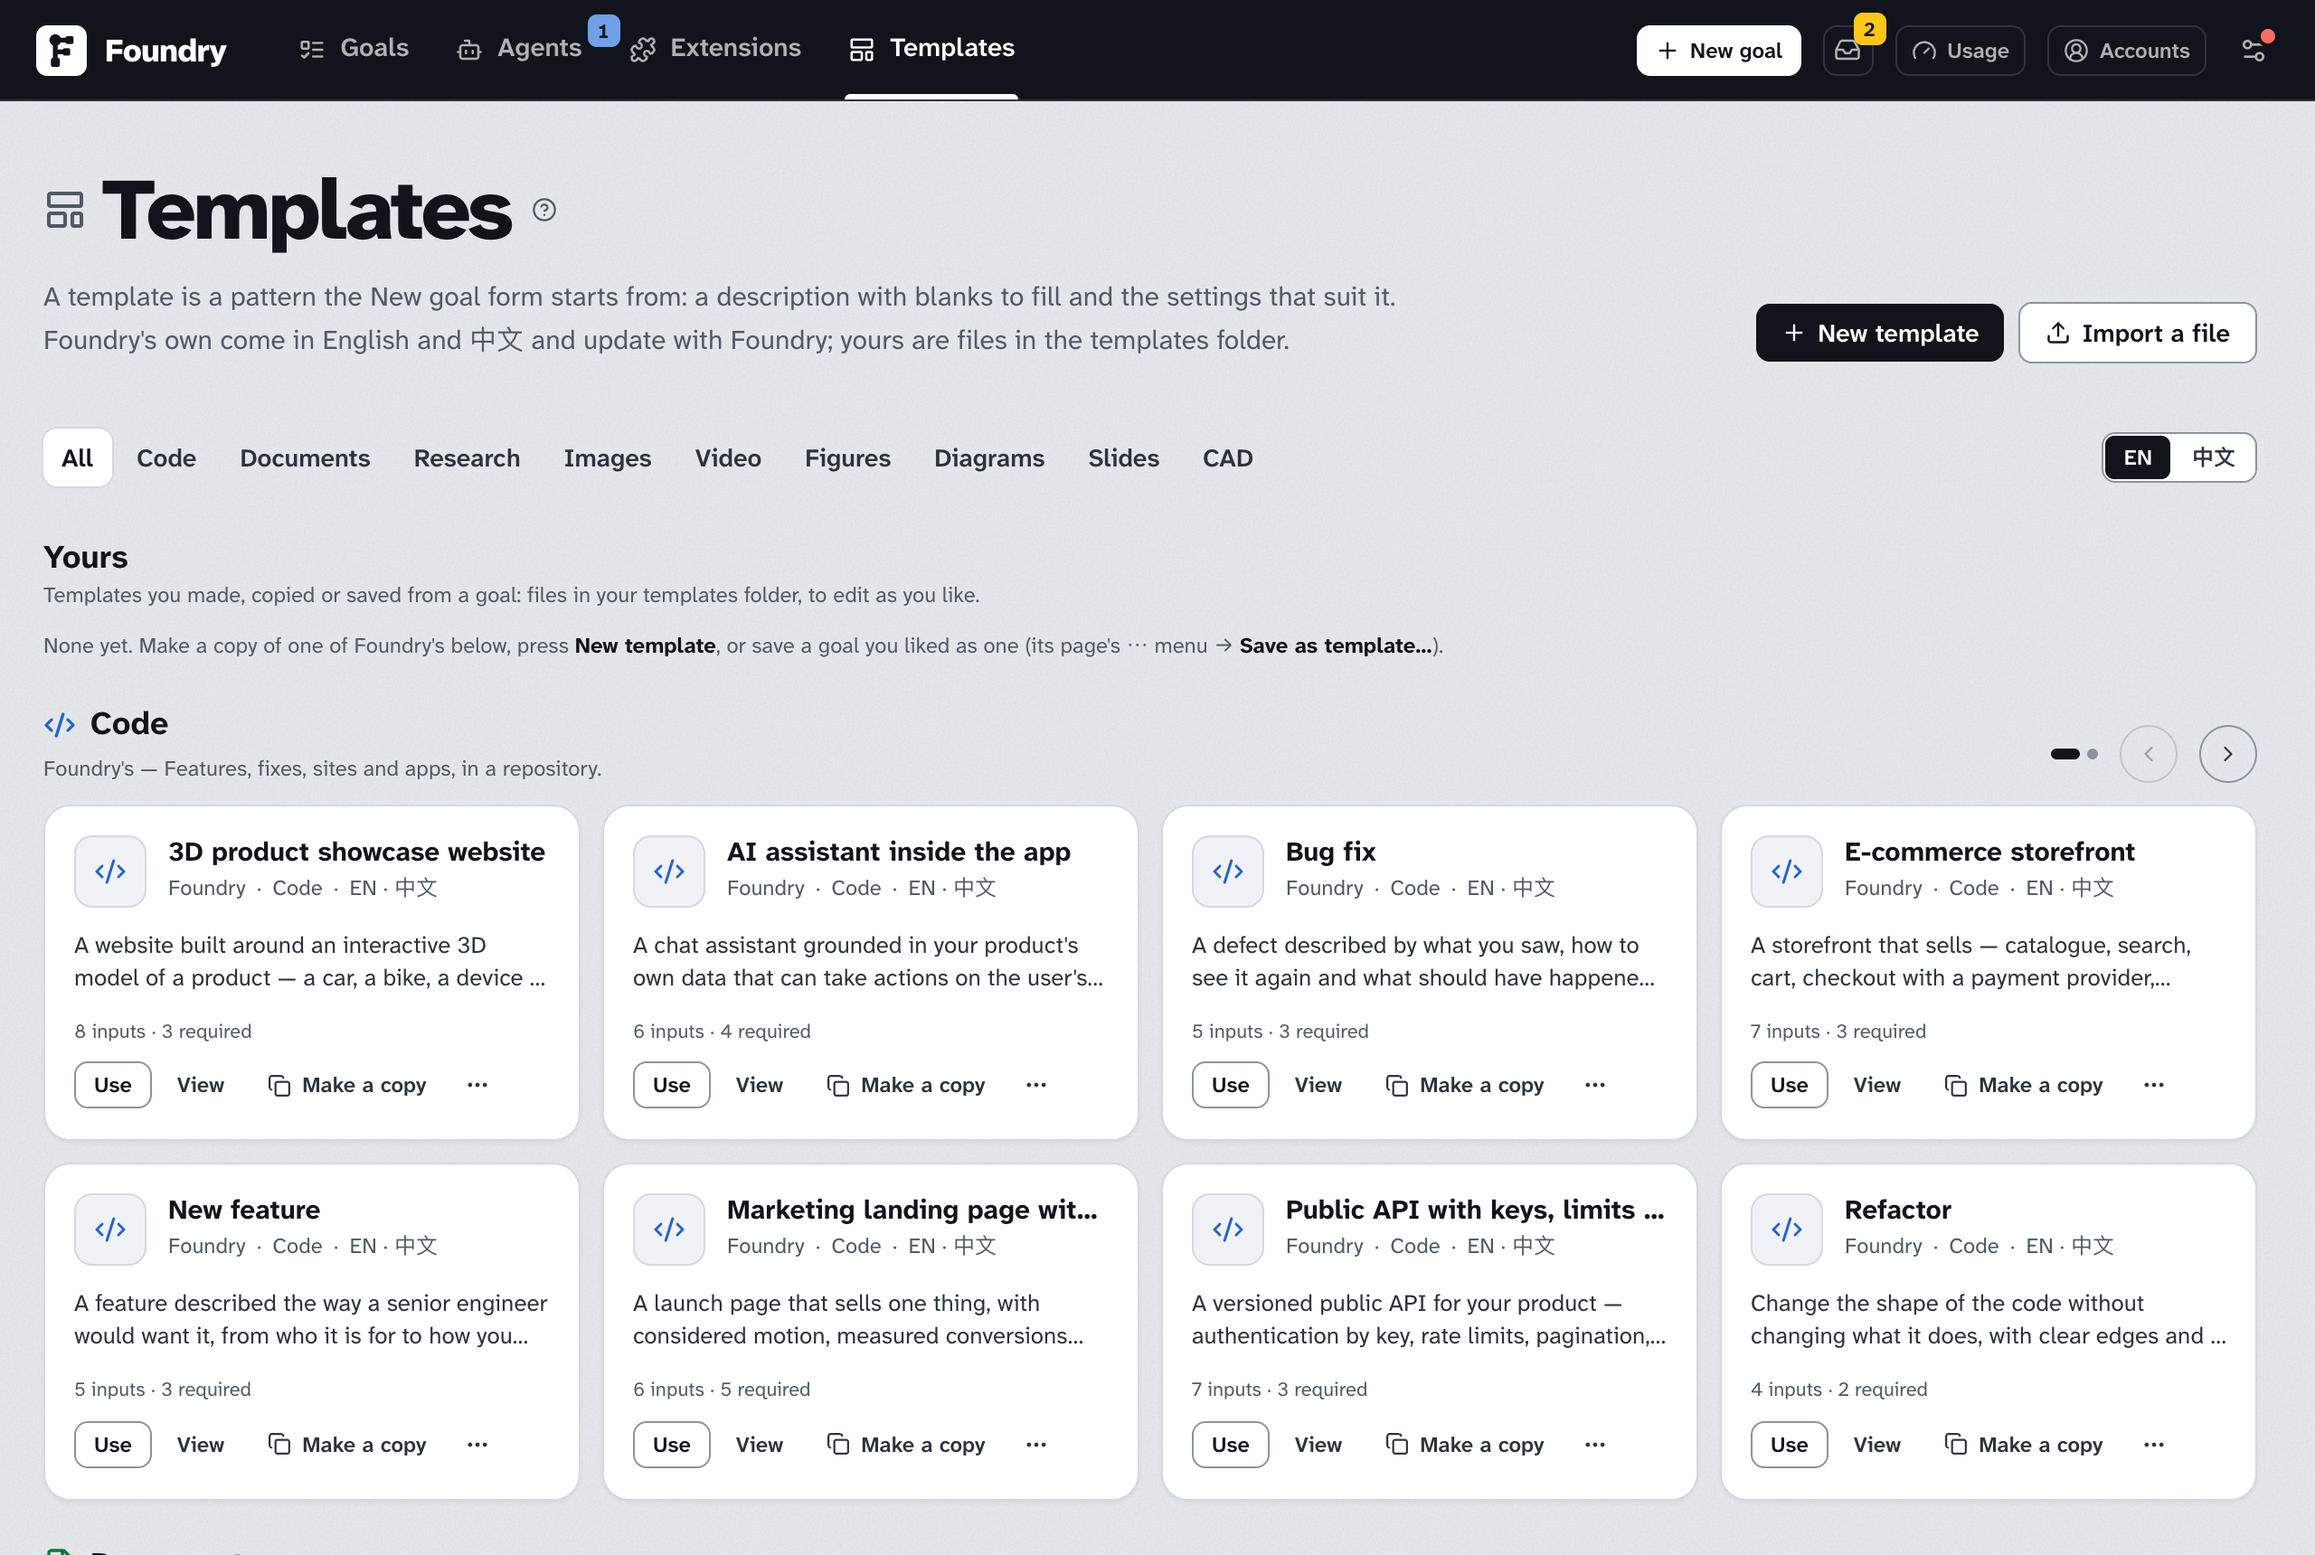
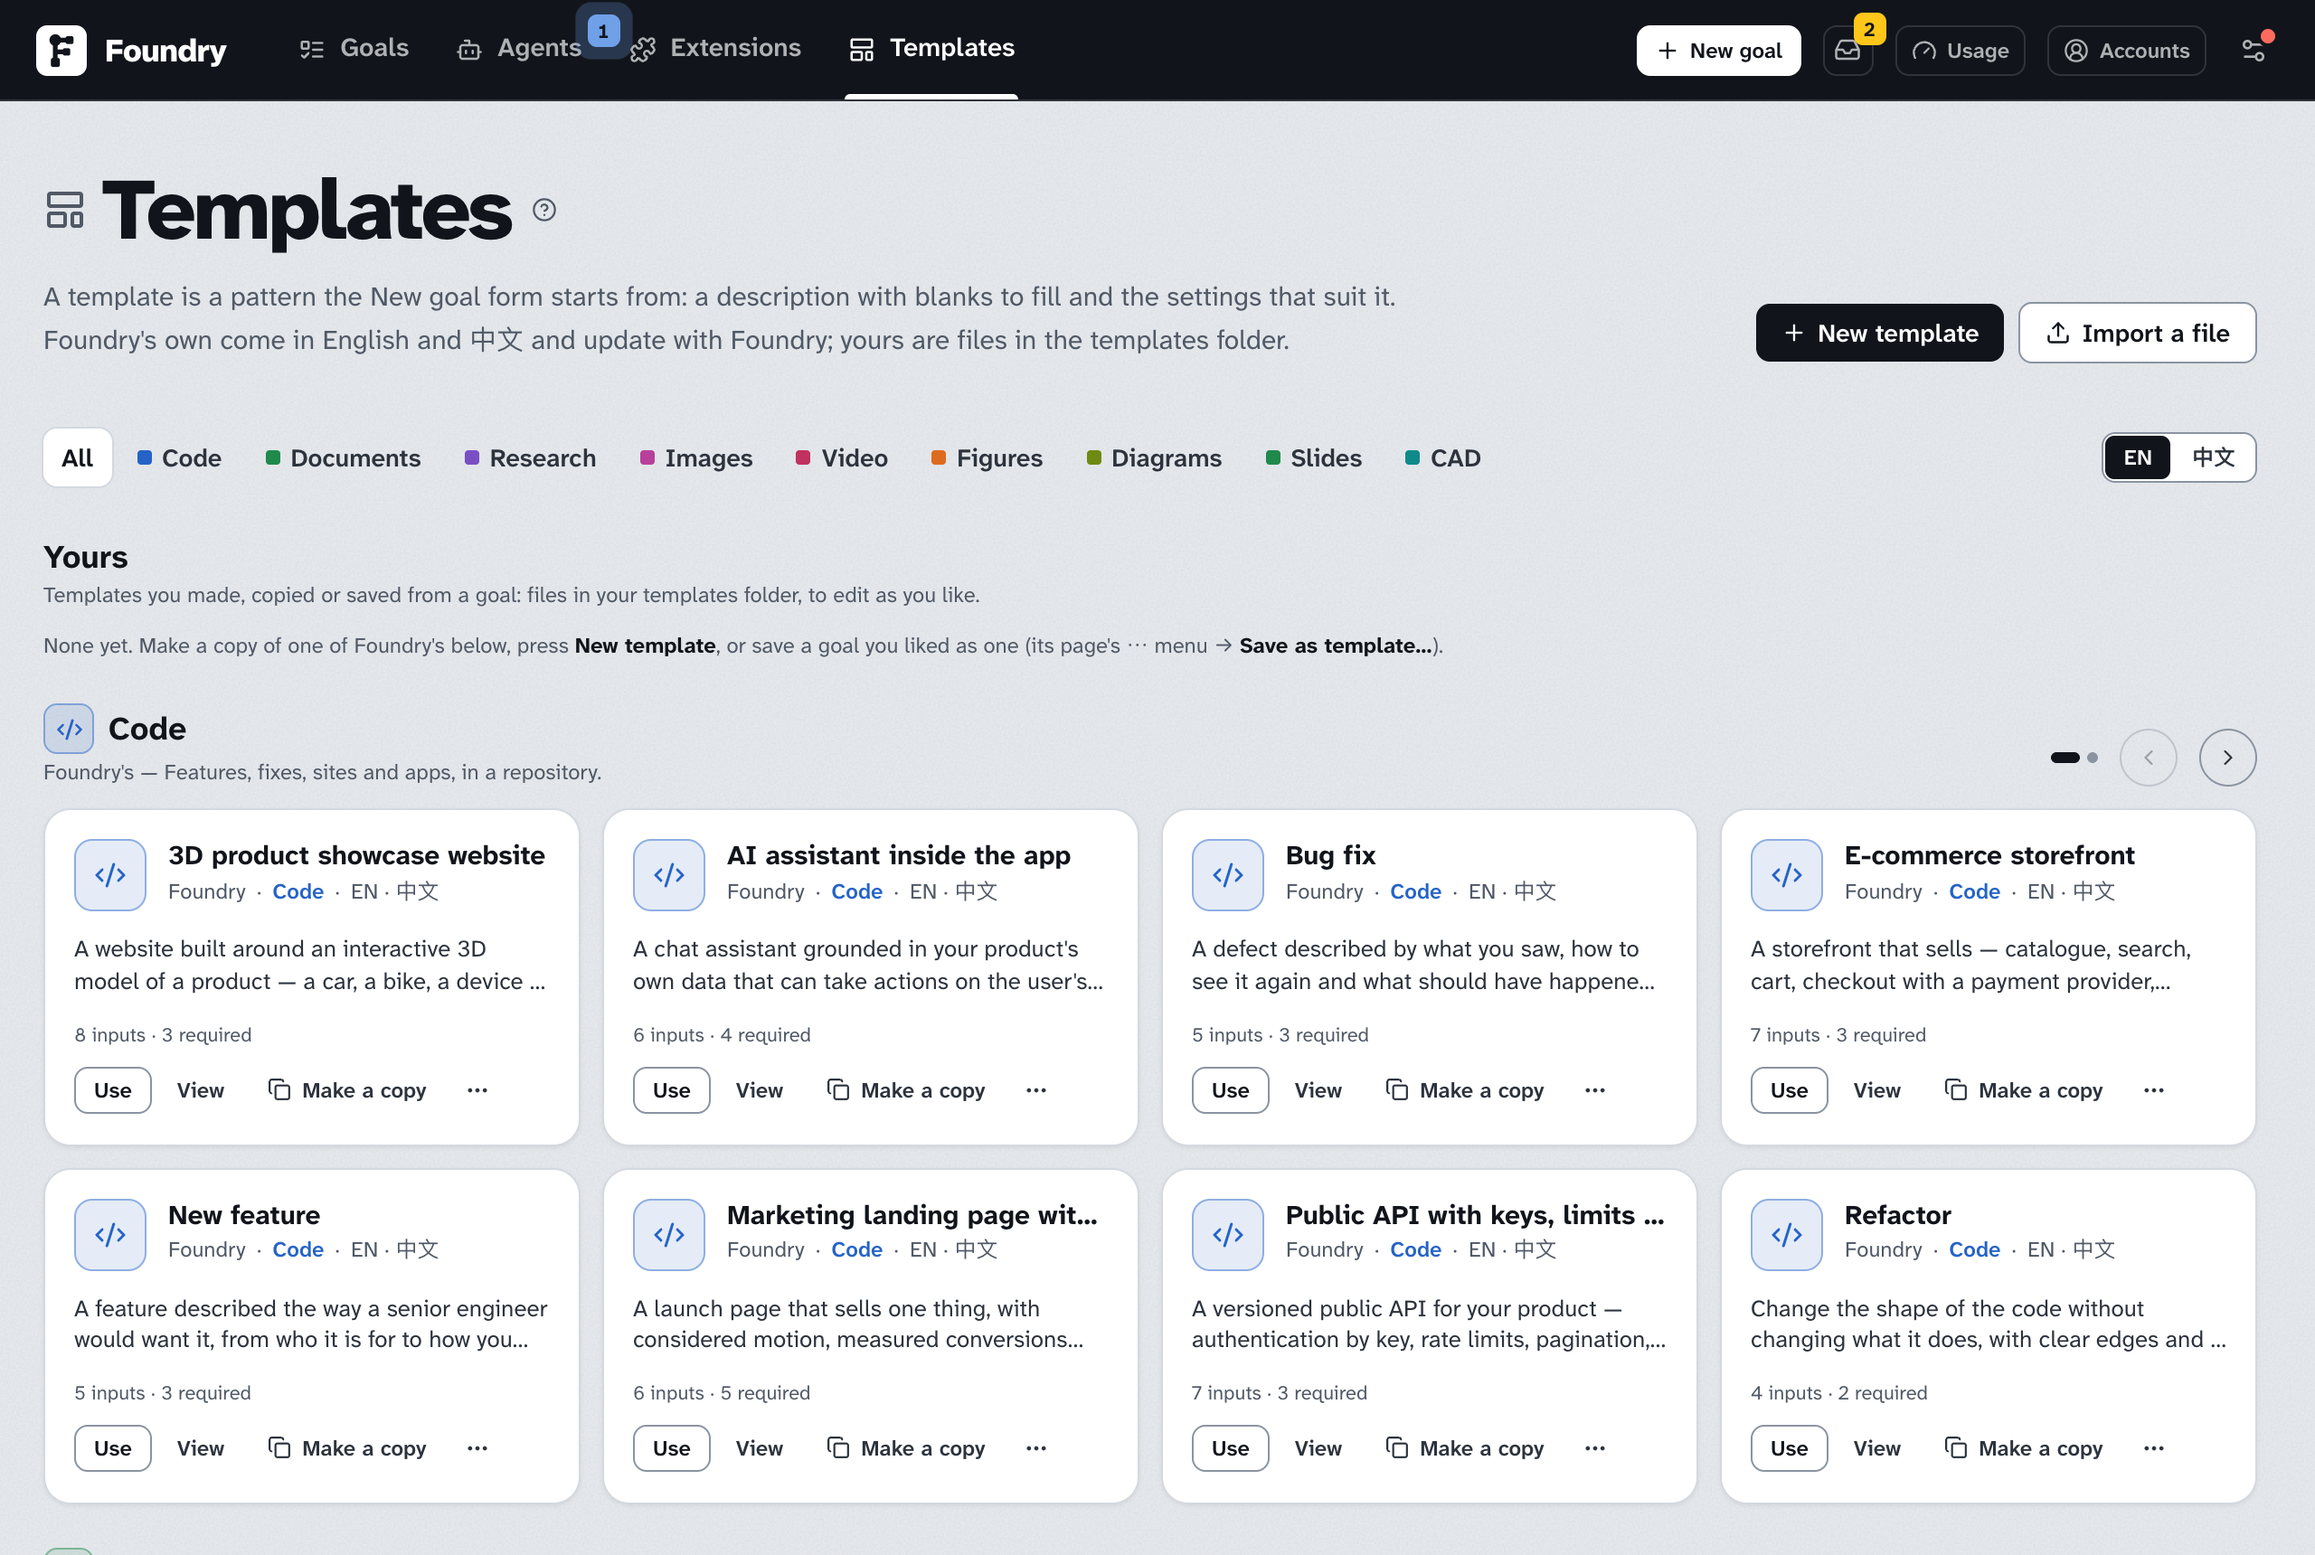
feat(templates): the kinds' colours on the gallery
The gallery was grey but for the kind icons. It now wears the kinds' category colours (ADR-0067) the way the Settings sections wear theirs: a square of the kind's colour before each tab, the kind's icon on a tinted tile of its colour on every card and in each shelf's title, the kind's word in its ink on a card's byline, and the icon in the Use dialog's title. NATURE_ICON carries the dot and the tile beside the ink; the guide's screenshot follows.

diff --git a/apps/web/src/pages/TemplatesPage.tsx b/apps/web/src/pages/TemplatesPage.tsx
@@ -151,7 +151,9 @@ export function Templates({ templates, problems, dir, editors, lang, onLang, err
       <div className="flex items-center gap-3">
         <div role="tablist" aria-label="Kind of goal" className="-mx-1 flex min-w-0 flex-1 gap-1 overflow-x-auto whitespace-nowrap px-1 py-1">
           {(['all', ...kinds] as (TemplateNature | 'all')[]).map((k) => (
-            <button key={k} type="button" role="tab" aria-selected={kind === k} onClick={() => setKind(k)} className={cn('shrink-0 rounded-md px-2.5 py-1.5 text-sm font-semibold transition-colors', kind === k ? 'bg-panel text-ink shadow-[0_0_0_1px_var(--color-line)]' : 'text-ink-soft hover:text-ink')}>
+            <button key={k} type="button" role="tab" aria-selected={kind === k} onClick={() => setKind(k)} className={cn('inline-flex shrink-0 items-center gap-1.5 rounded-md px-2.5 py-1.5 text-sm font-semibold transition-colors', kind === k ? 'bg-panel text-ink shadow-[0_0_0_1px_var(--color-line)]' : 'text-ink-soft hover:text-ink')}>
+              {/* the kind's colour as a small square before its name, as the Settings sections wear theirs */}
+              {k !== 'all' && <span className={cn('h-2 w-2 shrink-0 rounded-[2px]', NATURE_ICON[k].dot)} aria-hidden="true" />}
               {k === 'all' ? 'All' : NATURE_WORD[k]}
             </button>
           ))}
@@ -174,8 +176,23 @@ export function Templates({ templates, problems, dir, editors, lang, onLang, err
       } />
 
       {shelves.map((g) => {
-        const { Icon, ink } = NATURE_ICON[g.nature];
-        return <Shelf key={g.nature} id={`shipped-${g.nature}`} title={<span className="inline-flex items-center gap-2"><Icon size={18} strokeWidth={2.25} className={ink} aria-hidden="true" />{NATURE_WORD[g.nature]}</span>} subtitle={`Foundry's — ${NATURE_LINE[g.nature]}`} items={g.templates.map(tile)} />;
+        const { Icon, chip } = NATURE_ICON[g.nature];
+        return (
+          <Shelf
+            key={g.nature}
+            id={`shipped-${g.nature}`}
+            title={
+              <span className="inline-flex items-center gap-2">
+                <span className={cn('grid size-7 shrink-0 place-items-center rounded-md', chip)} aria-hidden="true">
+                  <Icon size={15} strokeWidth={2.25} />
+                </span>
+                {NATURE_WORD[g.nature]}
+              </span>
+            }
+            subtitle={`Foundry's — ${NATURE_LINE[g.nature]}`}
+            items={g.templates.map(tile)}
+          />
+        );
       })}
 
       <Card id="templates-folder" title="The templates folder">
@@ -244,10 +261,21 @@ export function Templates({ templates, problems, dir, editors, lang, onLang, err
 export function UseTemplateDialog({ entry, lang, onClose, onConfirm }: { entry: TemplateEntry | null; lang: TemplateLang; onClose: () => void; onConfirm: () => void }) {
   if (!entry) return null;
   const v = shownVersion(entry, lang);
+  const { Icon, ink } = NATURE_ICON[entry.nature];
   const required = v.inputs.filter(inputRequired).length;
   const brings = templateBrings(entry);
   return (
-    <ConfirmDialog open title={`Use “${v.name}” for a new goal?`} confirmLabel="Use" onConfirm={onConfirm} onClose={onClose}>
+    <ConfirmDialog
+      open
+      title={
+        <span className="inline-flex items-center gap-2">
+          <Icon size={15} strokeWidth={2.25} className={cn('shrink-0', ink)} aria-hidden="true" /> Use “{v.name}” for a new goal?
+        </span>
+      }
+      confirmLabel="Use"
+      onConfirm={onConfirm}
+      onClose={onClose}
+    >
       <div className="space-y-2">
         {v.summary && <p className="text-ink-soft">{v.summary}</p>}
         <p>
@@ -304,7 +332,7 @@ function Shelf({ id, title, subtitle, items, empty }: { id: string; title: React
 /** one template as a card on a shelf: its kind's mark on a tile, its name, whose it is, its summary, what it asks, and what can be done with it */
 function TemplateTile({ entry, lang, editors, onError, onUse, onView, onCopy, onRename, onExport, onDelete }: { entry: TemplateEntry; lang: TemplateLang; editors: OpenTarget[]; onError: (e: string | null) => void; onUse: () => void; onView: () => void; onCopy: () => void; onRename?: () => void; onExport: (l: TemplateLang) => void; onDelete?: () => void }) {
   const v = shownVersion(entry, lang);
-  const { Icon, ink } = NATURE_ICON[entry.nature];
+  const { Icon, ink, chip } = NATURE_ICON[entry.nature];
   const langs = (['en', 'zh'] as TemplateLang[]).filter((l) => entry[l]);
   const required = v.inputs.filter(inputRequired).length;
   const openIn = (t: OpenTarget) => {
@@ -314,8 +342,9 @@ function TemplateTile({ entry, lang, editors, onError, onUse, onView, onCopy, on
   return (
     <article className="flex flex-col rounded-xl border border-line bg-panel p-4 shadow-[var(--surface-shadow)]" aria-label={v.name}>
       <div className="flex items-start gap-3">
-        <span className="grid size-10 shrink-0 place-items-center rounded-lg bg-sunken ring-1 ring-inset ring-line" aria-hidden="true">
-          <Icon size={18} strokeWidth={2} className={ink} />
+        {/* the kind's mark on a tile of the kind's colour (ADR-0067), as a brand's logo sits on its tile in Settings */}
+        <span className={cn('grid size-10 shrink-0 place-items-center rounded-lg', chip)} aria-hidden="true">
+          <Icon size={18} strokeWidth={2} />
         </span>
         <div className="min-w-0 flex-1">
           <h3 className="truncate text-[15px] font-bold leading-tight text-ink" title={v.name}>
@@ -324,7 +353,7 @@ function TemplateTile({ entry, lang, editors, onError, onUse, onView, onCopy, on
           <p className="mt-0.5 flex flex-wrap items-center gap-x-1.5 text-xs text-ink-faint">
             <span className={cn(!entry.builtIn && 'font-semibold text-ink-soft')}>{entry.builtIn ? 'Foundry' : 'yours'}</span>
             <span aria-hidden="true">·</span>
-            <span>{NATURE_WORD[entry.nature]}</span>
+            <span className={cn('font-semibold', ink)}>{NATURE_WORD[entry.nature]}</span>
             {langs.length === 2 && (
               <>
                 <span aria-hidden="true">·</span>

diff --git a/apps/web/src/components/Templates.tsx b/apps/web/src/components/Templates.tsx
@@ -8,17 +8,19 @@ import { Markdown } from './Markdown.tsx';
 import { Button, ButtonGroup, Input, Modal, Select, Textarea, buttonClass, choiceClass, cn, code } from '../ui.tsx';
 import { NATURE_WORD, byNature, matchesSearch, shownVersion } from '../pages/new-goal-template.ts';
 
-/** each kind's icon and category colour, as the New goal form's Kind of goal card draws them (ADR-0067) */
-export const NATURE_ICON: Record<TemplateNature, { Icon: LucideIcon; ink: string }> = {
-  code: { Icon: CodeXml, ink: code(0).ink },
-  docs: { Icon: FileText, ink: code(1).ink },
-  research: { Icon: Telescope, ink: code(2).ink },
-  image: { Icon: ImageIcon, ink: code(6).ink },
-  video: { Icon: Clapperboard, ink: code(4).ink },
-  figure: { Icon: Lamp, ink: code(3).ink },
-  diagram: { Icon: Workflow, ink: code(7).ink },
-  deck: { Icon: Presentation, ink: code(1).ink },
-  cad: { Icon: Box, ink: code(5).ink },
+/** a kind's icon with its category colour (ADR-0067): the icon's ink, the square before its name, a tinted tile for the icon */
+const kind = (Icon: LucideIcon, i: number) => ({ Icon, ink: code(i).ink, dot: code(i).dot, chip: code(i).chip });
+/** each kind's icon and category colour, as the New goal form's Kind of goal card and the Templates page draw them */
+export const NATURE_ICON: Record<TemplateNature, { Icon: LucideIcon; ink: string; dot: string; chip: string }> = {
+  code: kind(CodeXml, 0),
+  docs: kind(FileText, 1),
+  research: kind(Telescope, 2),
+  image: kind(ImageIcon, 6),
+  video: kind(Clapperboard, 4),
+  figure: kind(Lamp, 3),
+  diagram: kind(Workflow, 7),
+  deck: kind(Presentation, 1),
+  cad: kind(Box, 5),
 };
 
 /** English or 中文, for this browser: the templates' names, inputs and words follow */
